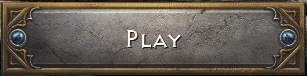
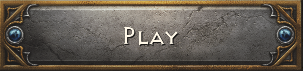
fix(start): Robustify game start with new disabled play button

diff --git a/src/ui_manager.py b/src/ui_manager.py
@@ -152,21 +152,24 @@ class UiManager():
         :return: Bool if action was successful
         """
         while 1:
-            _, pos = self._template_finder.search_and_wait("PLAY_BTN", roi=self._config.ui_roi["play_btn"], threshold=0.91)
-            # sanity x, y check and determine if offline or online
-            x_range_offline = [self._config.ui_pos["play_x_offline"] - 50, self._config.ui_pos["play_x_offline"] + 50]
-            x_range_online = [self._config.ui_pos["play_x_online"] - 50, self._config.ui_pos["play_x_online"] + 50]
-            y_range = [self._config.ui_pos["play_y"] - 50, self._config.ui_pos["play_y"] + 50]
-            in_offline_range = x_range_offline[0] < pos[0] < x_range_offline[1]
-            in_online_range = x_range_online[0] < pos[0] < x_range_online[1]
-            mode_info = "online mode" if in_online_range else "offline mode"
-            if (in_offline_range or in_online_range) and y_range[0] < pos[1] < y_range[1]:
-                pos = [pos[0], self._config.ui_pos["play_y"]]
+            img = self._screen.grab()
+            # search offline btn
+            found_off, _ = self._template_finder.search("PLAY_BTN", img, roi=self._config.ui_roi["play_btn_offline"], threshold=0.8)
+            # search online btn with enabled and disabled version
+            found_on, _ = self._template_finder.search("PLAY_BTN", img, roi=self._config.ui_roi["play_btn_online"], threshold=0.8)
+            score_enabled = self._template_finder.last_score
+            self._template_finder.search("PLAY_BTN_GRAY", img, roi=self._config.ui_roi["play_btn_online"], threshold=0.8)
+            score_disabled = self._template_finder.last_score
+            found_on = found_on and score_enabled > score_disabled
+            if found_off or found_on:
+                x_s = self._config.ui_pos["play_x_offline"] if found_off else self._config.ui_pos["play_x_online"]
+                pos = [x_s, self._config.ui_pos["play_y"]]
                 x, y = self._screen.convert_screen_to_monitor(pos)
+                mode_info = "offline" if found_off else "online"
                 Logger.debug(f"Found Play Btn ({mode_info}) -> clicking it")
-                if mode_info == "online mode":
+                if mode_info == "online":
                     Logger.warning("You are creating a game in online mode!")
-                custom_mouse.move(x, y, duration=(random.random() * 0.2 + 0.5), randomize=5)
+                custom_mouse.move(x, y, duration=(random.random() * 0.2 + 0.4), randomize=5)
                 mouse.click(button="left")
                 break
             time.sleep(3.0)
@@ -178,15 +181,11 @@ class UiManager():
                 Logger.debug("Could not find hell btn, try from start again")
                 return self.start_hell_game()
             # sanity x y check. Note: not checking y range as it often detects nightmare button as hell btn, not sure why
-            x_range = [self._config.ui_pos["hell_x"] - 50, self._config.ui_pos["hell_x"] + 50]
-            if x_range[0] < pos[0] < x_range[1]:
-                x, y = self._screen.convert_screen_to_monitor((self._config.ui_pos["hell_x"], self._config.ui_pos["hell_y"]))
-                Logger.debug("Found Hell Btn -> clicking it")
-                custom_mouse.move(x, y, duration=(random.random() * 0.2 + 1.0), randomize=5)
-                mouse.click(button="left")
-                break
-            else:
-                time.sleep(3.0)
+            x, y = self._screen.convert_screen_to_monitor((self._config.ui_pos["hell_x"], self._config.ui_pos["hell_y"]))
+            Logger.debug("Found Hell Btn -> clicking it")
+            custom_mouse.move(x, y, duration=(random.random() * 0.1 + 0.4), randomize=5)
+            mouse.click(button="left")
+            break
 
         # check for server issue
         wait(2.0)
@@ -194,7 +193,7 @@ class UiManager():
         if server_issue:
             Logger.warning("Server connection issue. waiting 20s")
             x, y = self._screen.convert_screen_to_monitor((self._config.ui_pos["issue_occured_ok_x"], self._config.ui_pos["issue_occured_ok_y"]))
-            custom_mouse.move(x, y, duration=(random.random() * 0.4 + 1.0), randomize=5)
+            custom_mouse.move(x, y, duration=(random.random() * 0.1 + 0.4), randomize=5)
             mouse.click(button="left")
             wait(1, 2)
             keyboard.send("esc")

diff --git a/src/template_finder.py b/src/template_finder.py
@@ -19,7 +19,7 @@ class TemplateFinder:
         :param screen: Screen object
         :param scale_factor: Scale factor that is used for templates. Note: UI and NPC templates will always have scale of 1.0
         """
-        self.debug_last_score = -1.0
+        self.last_score = -1.0
         self._screen = screen
         self._scale_factor = scale_factor
         self._config = Config()
@@ -116,7 +116,7 @@ class TemplateFinder:
         if img.shape[0] > template.shape[0] and img.shape[1] > template.shape[1]:
             res = cv2.matchTemplate(img, template, cv2.TM_CCOEFF_NORMED)
             _, max_val, _, max_pos = cv2.minMaxLoc(res)
-            self.debug_last_score = max_val
+            self.last_score = max_val
             if max_val > threshold:
                 ref_point = (max_pos[0] + int(template.shape[1] * 0.5) + rx, max_pos[1] + int(template.shape[0] * 0.5) + ry)
                 ref_point = (int(ref_point[0] * (1.0 / scale)), int(ref_point[1] * (1.0 / scale)))
@@ -153,7 +153,7 @@ if __name__ == "__main__":
     while 1:
         img = screen.grab()
         success, pos = template_finder.search("BLUE_PORTAL", img, threshold=0.67)
-        print(template_finder.debug_last_score)
+        print(template_finder.last_score)
         if success:
             cv2.circle(img, pos, 7, (255, 0, 0), thickness=5)
         img = cv2.resize(img, None, fx=0.5, fy=0.5, interpolation=cv2.INTER_NEAREST)